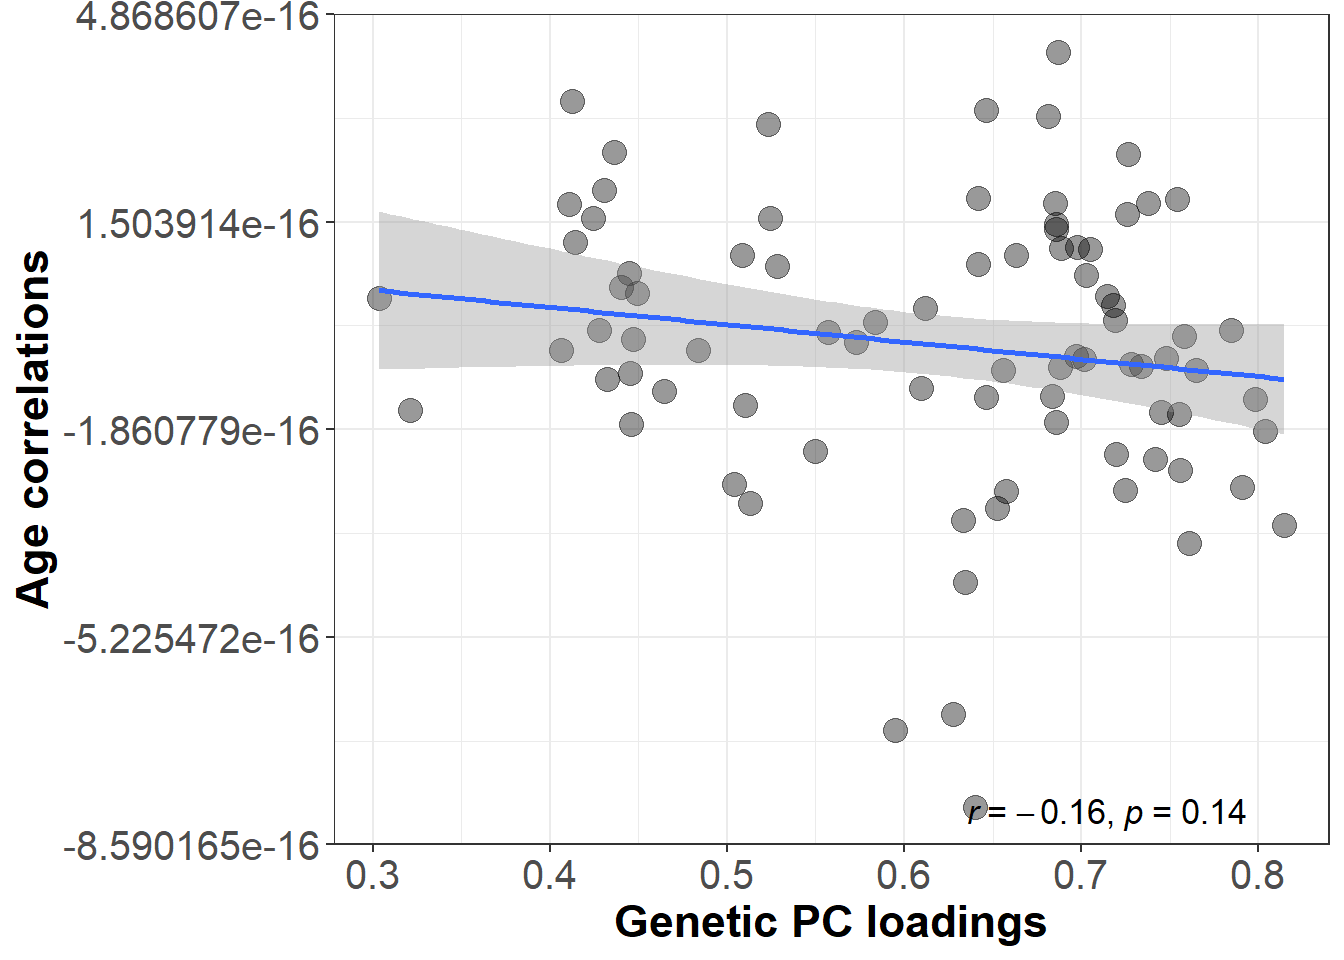
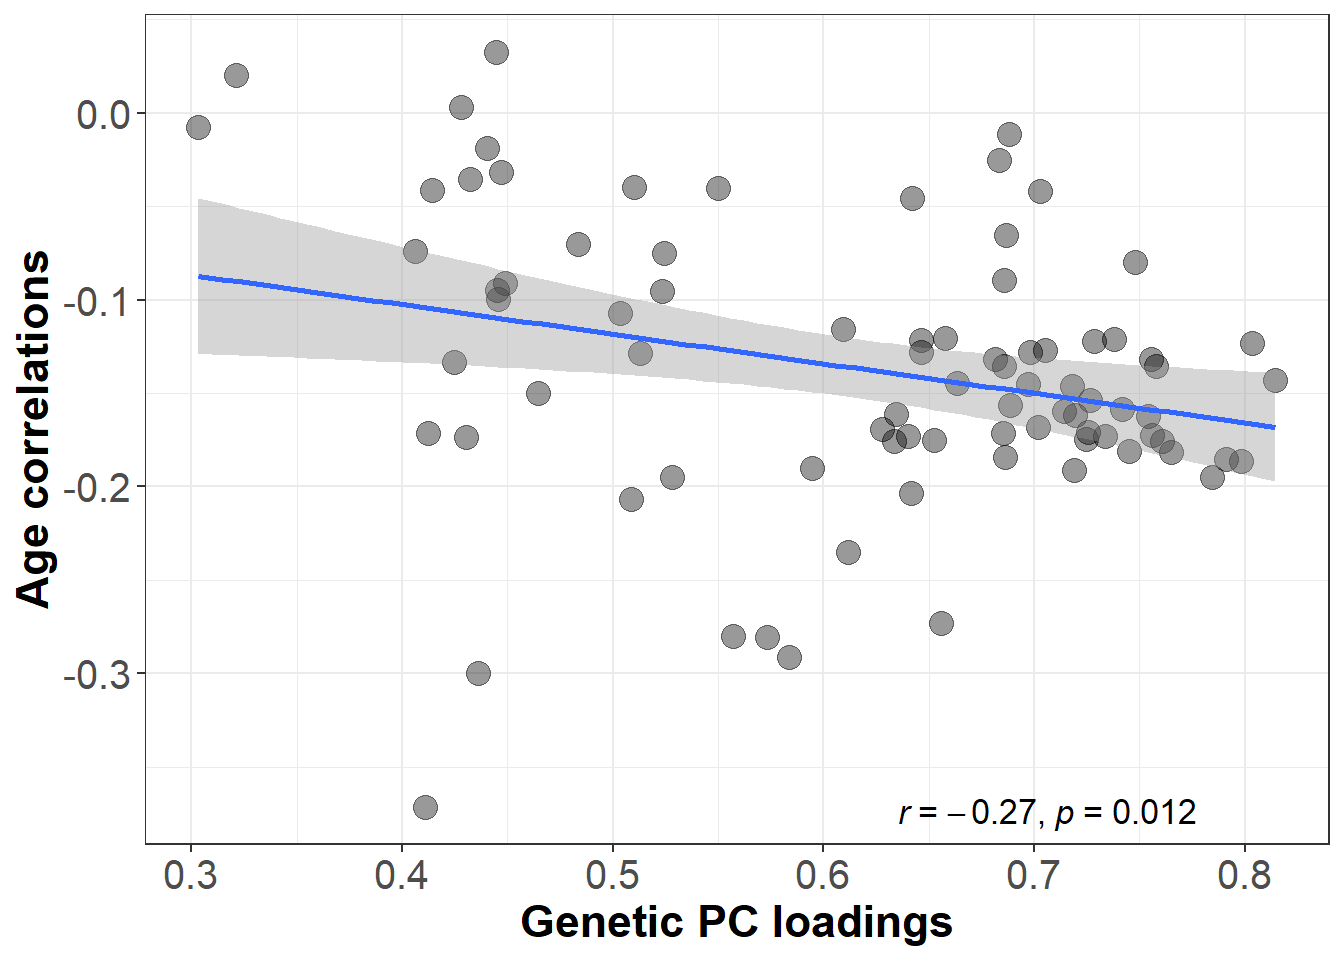
age corr

diff --git a/Hypothesis2and1.html b/Hypothesis2and1.html
@@ -496,21 +496,28 @@ plot_corr</code></pre>
 <p><img src="Hypothesis2and1_files/figure-html/pheno_vs_geno-1.png" width="672" style="display: block; margin: auto;" /></p>
 <p><strong>The red line is the line of identity.</strong></p>
 <p>We correlated phenotypic with genetic correlations among these areas, and we obtained a significant correlation of 0.84. This indicates that phenotypic correlations predict genetic correlations fairly well.</p>
-<div id="how-many-of-the-genetic-correlations-are-negative" class="section level3">
-<h3>How many of the genetic correlations are negative?</h3>
-<pre class="r"><code># negative genetic correlations
-neg_cor&lt;-sum(gen_pheno$genetic_cor&lt;=0 &amp; !is.na(gen_pheno$genetic_cor))
-total_cor&lt;-sum(!is.na(gen_pheno$genetic_cor))
-percent_neg&lt;-round((neg_cor/total_cor)*100,digits = 2)
+<p><br/> <br/></p>
+<pre class="r"><code>temporarywd&lt;-paste0(workingd,&quot;/data_my_own/ldsc/&quot;)
+setwd(temporarywd)
 
-# negative phenotypic correlations
-neg_pheno&lt;-sum(gen_pheno$phenotypic_cor&lt;=0 &amp; !is.na(gen_pheno$phenotypic_cor))
-total_pheno&lt;-sum(!is.na(gen_pheno$phenotypic_cor))
-percent_neg_pheno&lt;-neg_pheno/total_pheno</code></pre>
-<p>Genetic correlations are negative in 0.32% of the cases (negative correlations = 11, total correlations = 3403). In contrast, there are 0% negative phenotypic associations.</p>
+load(&quot;whole_brain.RData&quot;)
+ldscoutput&lt;-LDSCoutput_wholebrain
+  dimnames(ldscoutput$S_Stand)[[1]]&lt;-dimnames(ldscoutput$S)[[2]]
+  dimnames(ldscoutput$S_Stand)[[2]]&lt;-dimnames(ldscoutput$S)[[2]]
+
+k&lt;-nrow(ldscoutput$S)
+SE&lt;-matrix(0, k, k)
+SE[lower.tri(SE,diag=TRUE)] &lt;-sqrt(diag(ldscoutput$V))
+
+get_lower_tri&lt;-function(cormatrix){
+  cormatrix[upper.tri(cormatrix)] &lt;- NA
+  return(cormatrix)
+}
+
+SE_lower&lt;-get_lower_tri(SE)
+SE_lower&lt;-reshape2::melt(SE_lower)</code></pre>
 <hr />
 <p><br></p>
-</div>
 <div id="association-between-phenotypic-and-genetic-loadings-on-the-first-pc" class="section level2">
 <h2>Association between phenotypic and genetic loadings on the first PC</h2>
 <pre class="r"><code># load phenotypic loadings
@@ -799,7 +806,7 @@ data&lt;-merge(stand_loadings,age_cor,by=&quot;Regions&quot;)
 age_correlation_result&lt;-cor.test(data$gen_stand_loadings,data$age_cor)
 age_cor_estimate&lt;-round(age_correlation_result$estimate,digits = 2)
 age_cor_pval&lt;-round(age_correlation_result$p.value,digits = 3)</code></pre>
-<p>Genetic loadings do not significantly correlate with age sensitivity (<em>r</em> = -0.16, <em>p-value</em> = 0.145).</p>
+<p>Genetic loadings do not significantly correlate with age sensitivity (<em>r</em> = -0.27, <em>p-value</em> = 0.012).</p>
 <p><img src="Hypothesis2and1_files/figure-html/lot_age_cor-1.png" width="672" style="display: block; margin: auto;" /></p>
 <div id="plot-all-four-correlation-plots" class="section level3">
 <h3>Plot all four correlation plots</h3>
